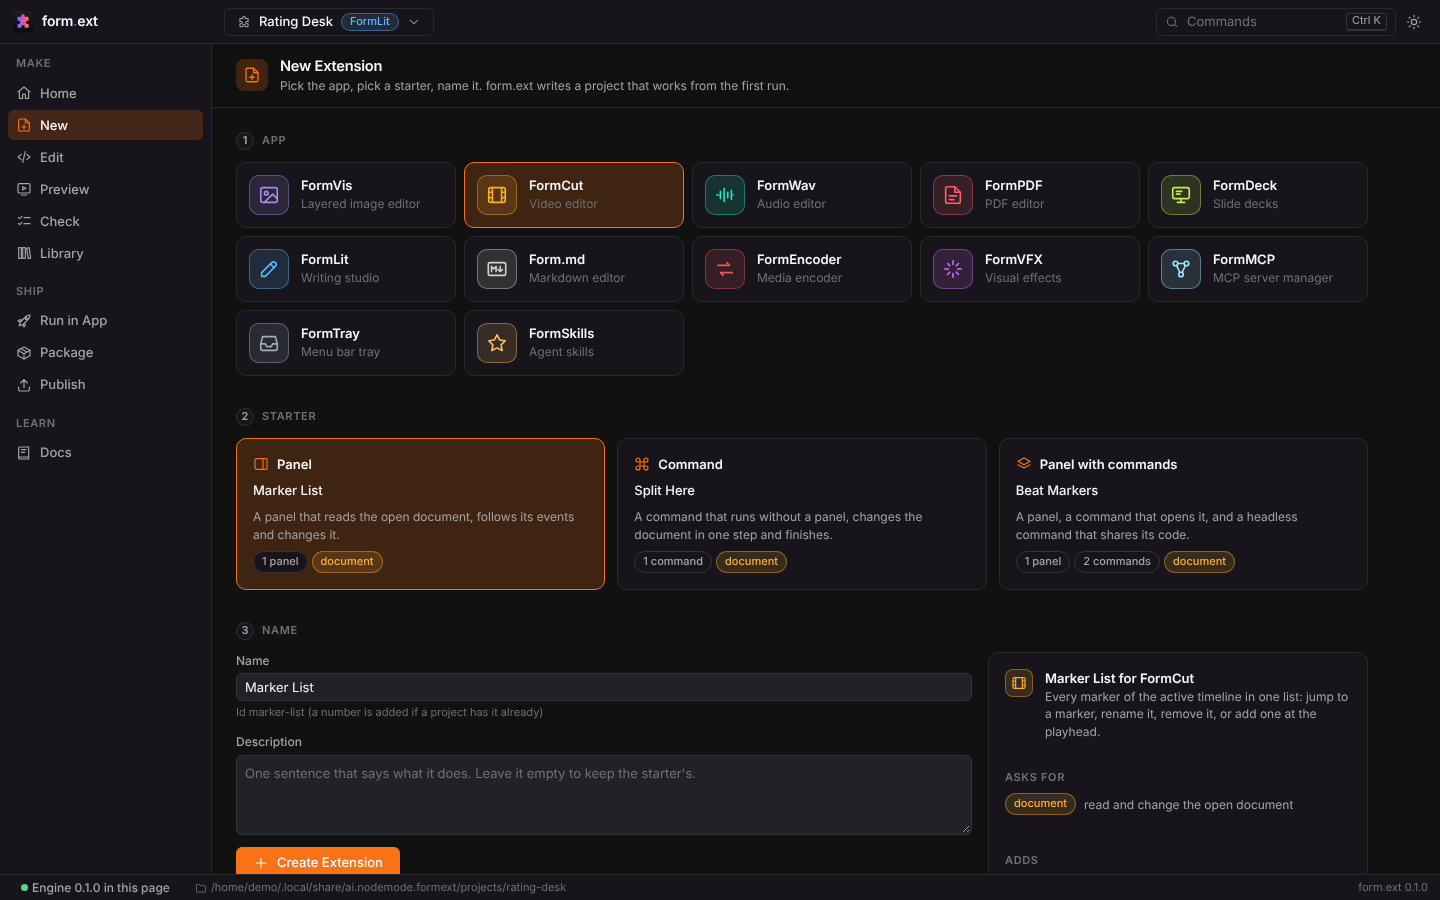
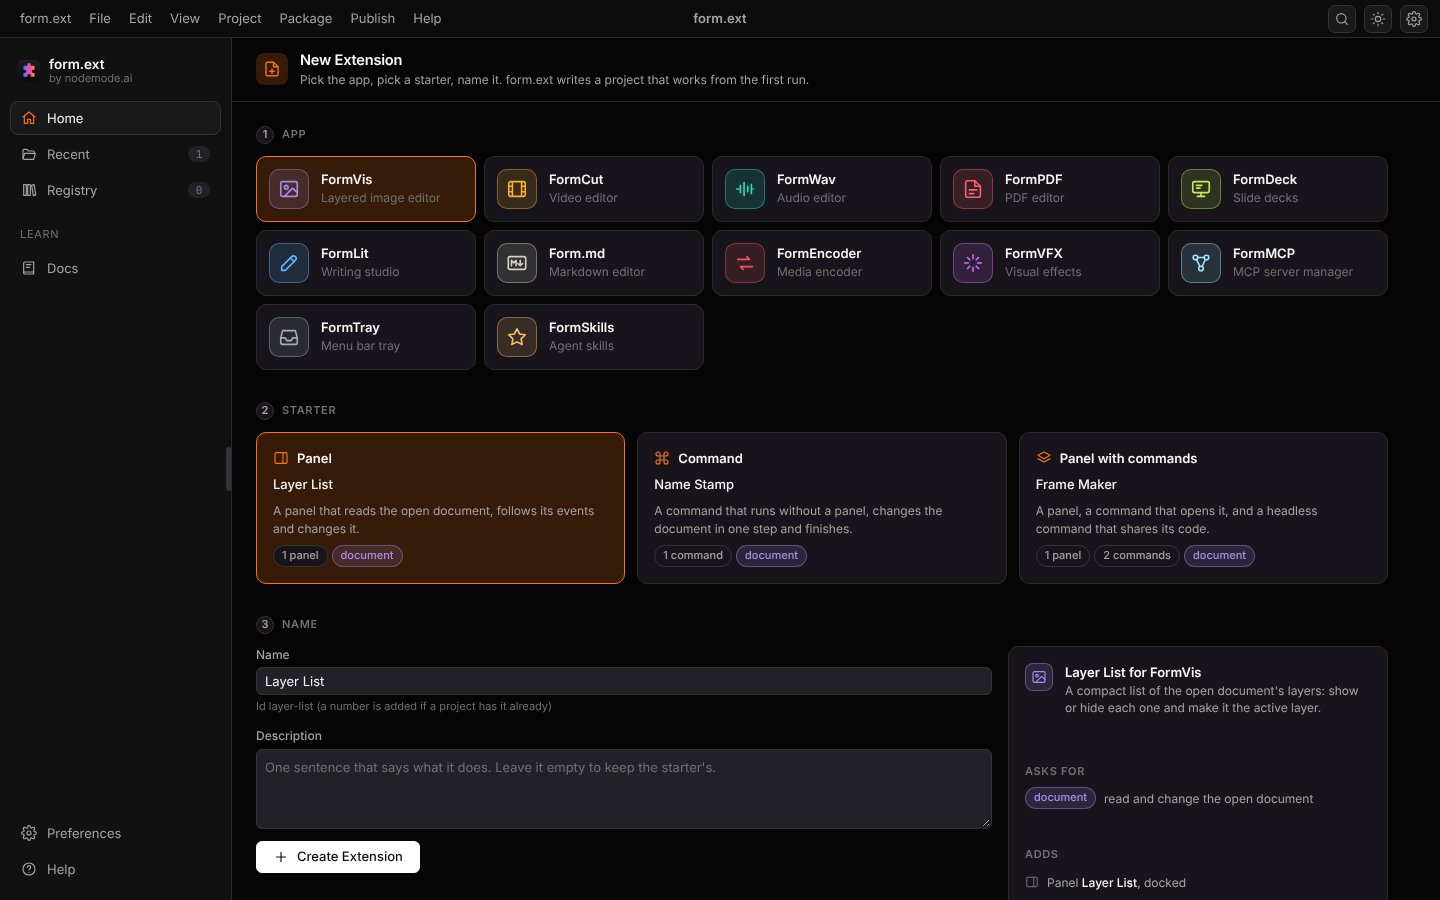
docs: the start page, Studio, menus and Preferences in the manual, wiki, README, skills and logs; refreshed screenshots

diff --git a/docs/MANUAL.md b/docs/MANUAL.md
@@ -46,8 +46,10 @@ The first five minutes:
 
 ## The window
 
-- **Sidebar**: Make (Home, New, Edit, Preview, Check, Library), Ship (Run in App, Package, Publish), Learn (Docs). Mod+1 to Mod+9 go to the panes in that order. The pane you were on comes back after a reload.
-- **Top bar**: the open project (click to switch, Mod+O), its app, and the theme toggle (Mod+Shift+L). Studio Dark is the default; the light theme is one click away and is remembered.
+- **Start page and Studio**: the window has two layouts. The start page (Home, New, Registry, Docs) carries the family sidebar: Home, Recent, Registry, a Learn group with Docs, and Preferences and Help at the foot. Its edge handle folds the sidebar to a 49 px icon rail, and the choice is remembered. Opening a project switches to the Studio, a full-window editor with no sidebar: the tool strip, the Files and Library panel, the tabbed code editor, the Manifest, Permissions and Check inspector, and a bottom panel of Problems, Host calls and Output.
+- **Menus**: on macOS the menus are the system menu bar (form.ext, File, Edit, View, Project, Package, Publish, Help). On Windows, Linux and in a browser the same menus sit in the title row. Every item is a command, so the palette lists the same names and keys.
+- **Title row**: 38 px high. The open project is on the left (on macOS), the app name in the centre, and three buttons at the right: Commands, the theme toggle (Mod+Shift+L) and Preferences. Studio Dark is the default; the light theme is remembered.
+- **Preferences**: Mod+, or the gear opens a dialog with eight sections (General, Interface, Editor, Preview, Publishing, Registry, FormPortal, Developer). A change is saved to settings.json as you make it.
 - **Command palette**: Mod+K (or Mod+Shift+P) lists every command of every pane with its keys.
 - **Status bar**: the engine's state, the open project, the version.
 
@@ -98,7 +100,7 @@ Files outside `package/` are yours (notes, sources, a build step) and are never 
 
 ## Edit
 
-Three columns: the file tree, the code editor, and the manifest form.
+The Studio's three columns: the file tree (Files, with a Library tab beside it), the code editor, and the manifest form in the inspector. Check, Preview, Run in App, Package and Publish are buttons in the tool strip: Check fills the Problems list below and the Check tab at the right, Preview opens beside the code (Split), Run in App, Package and Publish open as sheets over the Studio.
 
 - **File tree**: every file of the project. Files outside the package are in italics (not packed); a file whose type the `.formpkg` refuses carries a warning mark. New File in Project, rename and delete from the row.
 - **Code editor**: CodeMirror 6 with JavaScript, TypeScript, JSON, CSS, HTML and Markdown, search and replace (Mod+F), completion, folding, and JSON linting. Each file keeps its own undo history and cursor. Tabs come back after a reload. Images open as a picture; other binary files show their size.
@@ -244,6 +246,7 @@ form.ext keeps its projects and everything it makes in its data folder: `FORMEXT
 | Keys | Does |
 |---|---|
 | Mod+K, Mod+Shift+P | command palette |
+| Mod+, | Preferences |
 | Mod+1 to Mod+9 | go to a pane |
 | Mod+O | open a project |
 | Mod+N | New |

diff --git a/.claude/skills/formext-skillset/sub-skills/interface/SUB-SKILL.md b/.claude/skills/formext-skillset/sub-skills/interface/SUB-SKILL.md
@@ -1,13 +1,13 @@
 ---
 name: interface
-description: "form.ext's vanilla TypeScript and Vite interface: the shell (sidebar, top bar, status bar, palette, dialogs, toasts, theme boot), ShellContext and the pane contract, the panes Home, New, Edit (CodeMirror 6), Preview with the simulated hosts in src/sim, Check, Library, Run in App, Package, Publish and Docs, the tokens and component classes, and the zero-flash rules. Use when adding or changing a pane, a shell feature, styles, or fixing a flash, flicker or layout jump."
+description: "form.ext's vanilla TypeScript and Vite interface: the shell (38 px title row, native and in-window menus, start sidebar, status bar, palette, dialogs, Preferences, toasts, theme boot), ShellContext and the pane contract, the panes Home, New, Studio (CodeMirror 6 and the zones compositor), Preview with the simulated hosts in src/sim, Check, Library, Run in App, Package, Publish and Docs, the tokens and component classes, and the zero-flash rules. Use when adding or changing a pane, a shell feature, styles, or fixing a flash, flicker or layout jump."
 ---
 
 # interface
 
 ## The pane contract
 
-A pane is `frontend/src/panes/[name]/index.ts` exporting `export const pane: PaneDef` (`id`, `title`, `icon`, `order`, `group` make, ship or learn, `mount(el, ctx)` returning an optional cleanup) and importing its own `[name].css`. The shell finds panes with `import.meta.glob`, builds the sidebar and one `section.fx-pane` per pane before the window shows, and mounts a pane on first open. Orders: home 0, new 10, edit 20, preview 30, check 40, library 50; run 10, package 20, publish 30; docs 10.
+A pane is `frontend/src/panes/[name]/index.ts` exporting `export const pane: PaneDef` (`id`, `title`, `icon`, `order`, `group` make, ship or learn, `mount(el, ctx)` returning an optional cleanup) and importing its own `[name].css`. `view` is `start` (a page beside the start sidebar: home, new, docs), `studio` (the full-window editor, id `studio`) or `part` (library, check, preview, package, publish, run: mounted hidden, their DOM pieces moved into the Studio's left, centre, right, bottom and sheet zones by `panes/studio/zones.ts`). The shell finds panes with `import.meta.glob`, builds one `section.fx-pane` per pane before the window shows, and mounts a pane on first open. The layout is `data-layout` and `data-rail` on the root, set pre-paint by the boot script in `index.html`. A part's `q()` falls back to `document.querySelector` because its pieces leave its root. Menus are listed in `shell/menus.ts`; `native-menu.ts` builds them as the macOS menu bar, `menubar.ts` in the window elsewhere; Preferences is `shell/settings.ts` with `styles/settings.css`.
 
 ## ShellContext
 

diff --git a/.docs/wiki/Architecture.md b/.docs/wiki/Architecture.md
@@ -2,8 +2,8 @@
 
 ```text
 interface (vanilla TypeScript, Vite, port 5640)
-  shell: window, sidebar, palette, dialogs, theme boot, /api/live client
-  panes: home, new, edit, preview, check, library, run, package, publish, docs (each frontend/src/panes/<name>/)
+  shell: 38 px title row, menus (native on macOS), start sidebar, palette, dialogs, Preferences, theme boot, /api/live client
+  panes: home, new, docs (start pages), studio (the compositor), and the parts library, check, preview, package, publish, run (each frontend/src/panes/<name>/)
   sim: per-app simulated hosts over contract/host/host-bridge.ts
     -> HTTP /api/* and WebSocket /api/live
 engine (Python 3.12, FastAPI, 127.0.0.1:8640)
@@ -18,7 +18,7 @@ desktop shell (Tauri 2) -> frozen engine sidecar formext-engine
 
 ## The interface
 
-The shell discovers panes with `import.meta.glob('../panes/*/index.ts')` and builds the sidebar and every pane container before the first paint; a pane mounts on first open and fills its own final layout in place. Panes talk through the shell's context (`api`, `events`, `project`, `openPane`, `commands`, `dialog`, `notify`) and never import each other. The Docs pane bundles `contract/CONTRACT.md`, `sdk/README.md`, `docs/MANUAL.md` and `docs/apps/*.md` at build time and renders them with its own small Markdown renderer, so Docs works offline and in the demo.
+The shell discovers panes with `import.meta.glob('../panes/*/index.ts')` and builds the start sidebar and every pane container before the first paint; the layout (`data-layout` start or studio, `data-rail`) is set on the root by the inline boot script. A pane declares `view`: `start` (own page with the sidebar), `studio` (the full-window editor) or `part`. Part panes mount hidden and the Studio's zones compositor moves their pieces into the left, centre, right, bottom and sheet zones. A pane mounts on first open and fills its own final layout in place. Panes talk through the shell's context (`api`, `events`, `project`, `openPane`, `commands`, `dialog`, `notify`) and never import each other. The Docs pane bundles `contract/CONTRACT.md`, `sdk/README.md`, `docs/MANUAL.md` and `docs/apps/*.md` at build time and renders them with its own small Markdown renderer, so Docs works offline and in the demo.
 
 ## The engine
 

diff --git a/README.md b/README.md
@@ -60,7 +60,7 @@
       Twelve apps, three starters each. The project already works: it reads the open document and runs a command, with the SDK beside it.
     </td>
     <td width="50%" valign="top">
-      <img src="assets/formext-edit.png" alt="The Edit pane: the file tree, manifest.json in the code editor and the manifest form with name, id, app, version and description fields" width="100%">
+      <img src="assets/formext-edit.png" alt="The Studio: the file tree, manifest.json in the code editor and the manifest inspector with name, id, app, version and description fields" width="100%">
       <br><sub>The manifest form and the JSON stay in sync, both ways.</sub>
       <h3>Edit with the manifest in view</h3>
       A file tree, a CodeMirror editor, and a manifest form with the contract's plain words for each permission, panels and commands editors, and an unsaved-change guard.
@@ -100,7 +100,7 @@
 
 <table>
   <tr>
-    <td width="33%" valign="top"><h4>In the window</h4>Home · New · Edit · Preview · Check · Library · Run in App · Package · Publish · Docs</td>
+    <td width="33%" valign="top"><h4>In the window</h4>Start page · Studio (files, code, manifest, Check, Preview, Library) · Run in App · Package · Publish · Docs · Preferences</td>
     <td width="33%" valign="top"><h4>27 MCP tools</h4>status · docs · templates · new · read · write · manifest · validate · preview · package · sign · verify · run_in_app · publish · submit and the rest</td>
     <td width="33%" valign="top"><h4>Twelve hosts</h4>FormVis · FormCut · FormWav · FormPDF · FormDeck · FormLit · form.md · FormEncoder · FormVFX · FormMCP · FormTray · FormSkills</td>
   </tr>
